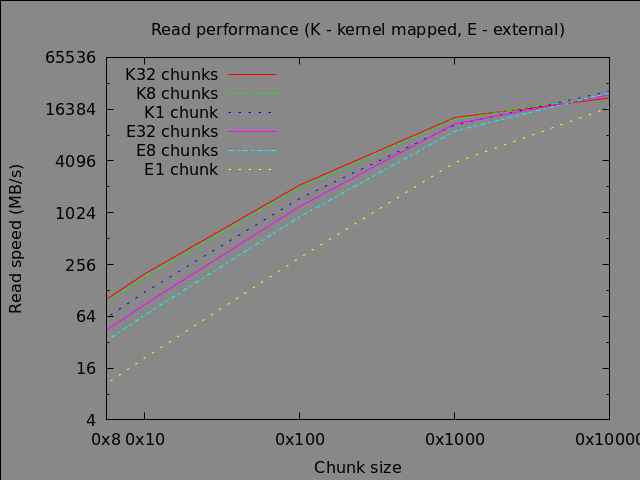
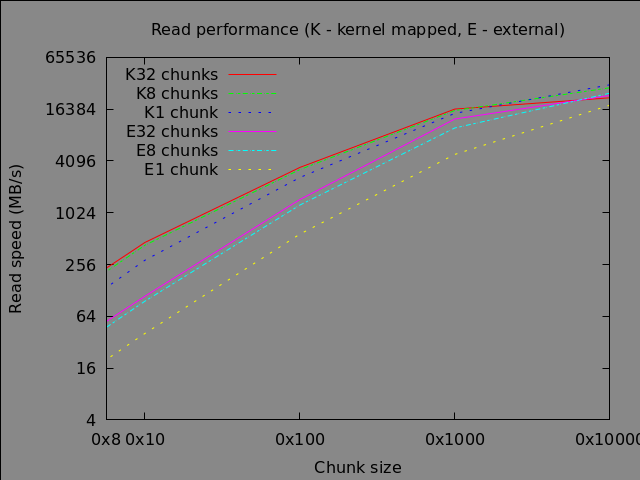
Update performance numbers

diff --git a/README.md b/README.md
@@ -13,7 +13,7 @@ Use meson and ninja to compile the example programs
 Use make to compile the kernel module
 
 ##### Performance
-Internal (QEMU inject) mode is roughly 7 times faster than external mode. However, it is possible to use the kernel module to map the memory space of QEMU into the external process, mitigating the performance penalty. Also, when performing larger reads, the memcpy quickly reaches its peak speed and external mode begins to catch up. Performance numbers are shown below.
+Internal (QEMU inject) mode is roughly 5 times faster than external mode. However, it is possible to use the kernel module to map the memory space of QEMU into the external process, mitigating the performance penalty. Also, when performing larger reads, the memcpy quickly reaches its peak speed and external mode begins to catch up. Performance numbers are shown below.
 
 ![alt text](https://github.com/Heep042/vmread/raw/master/rwperf.png "Read performance")
 
